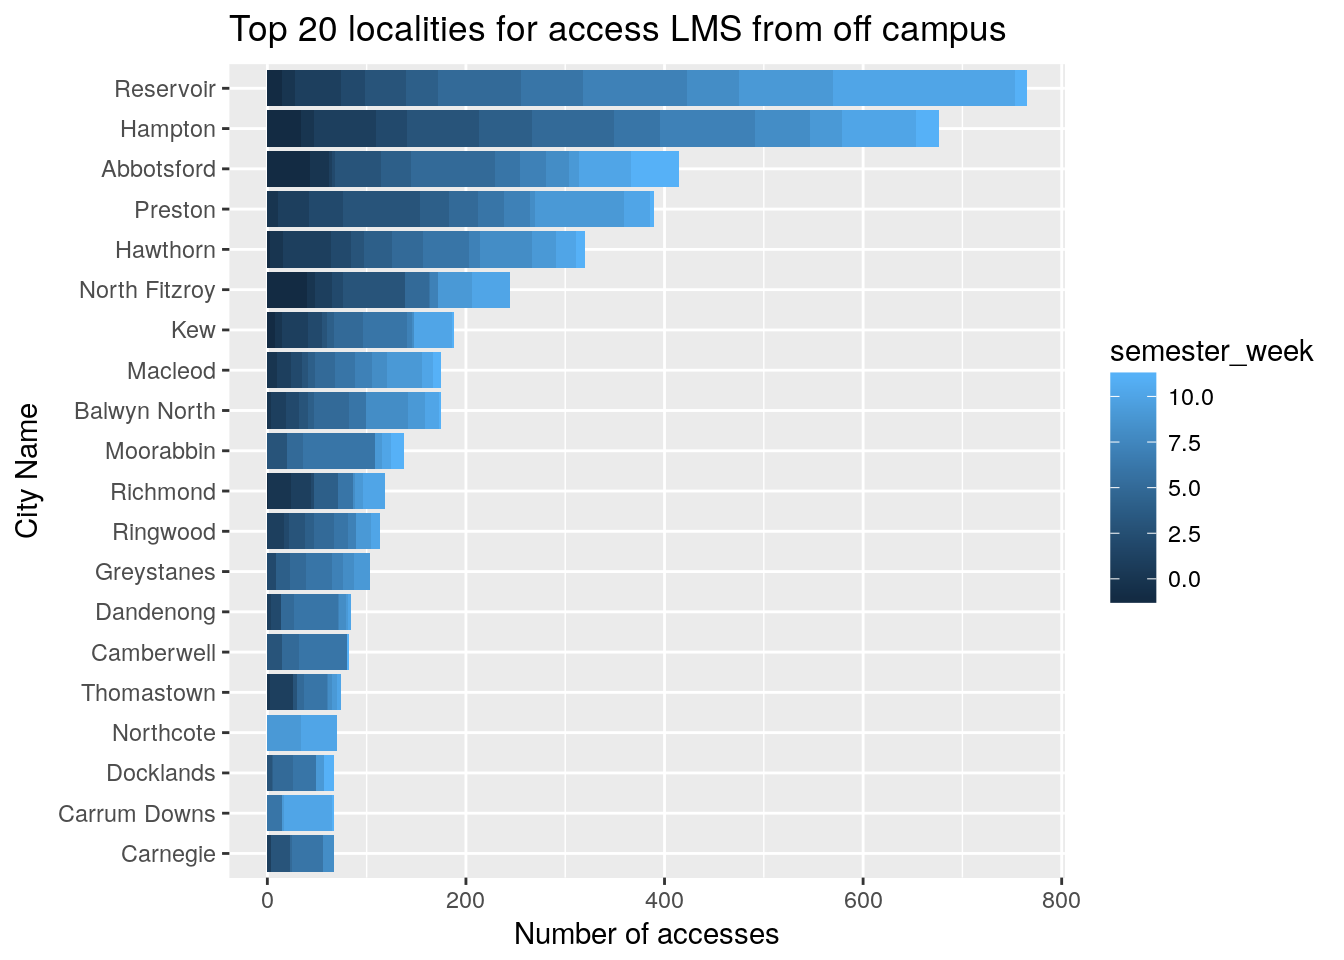
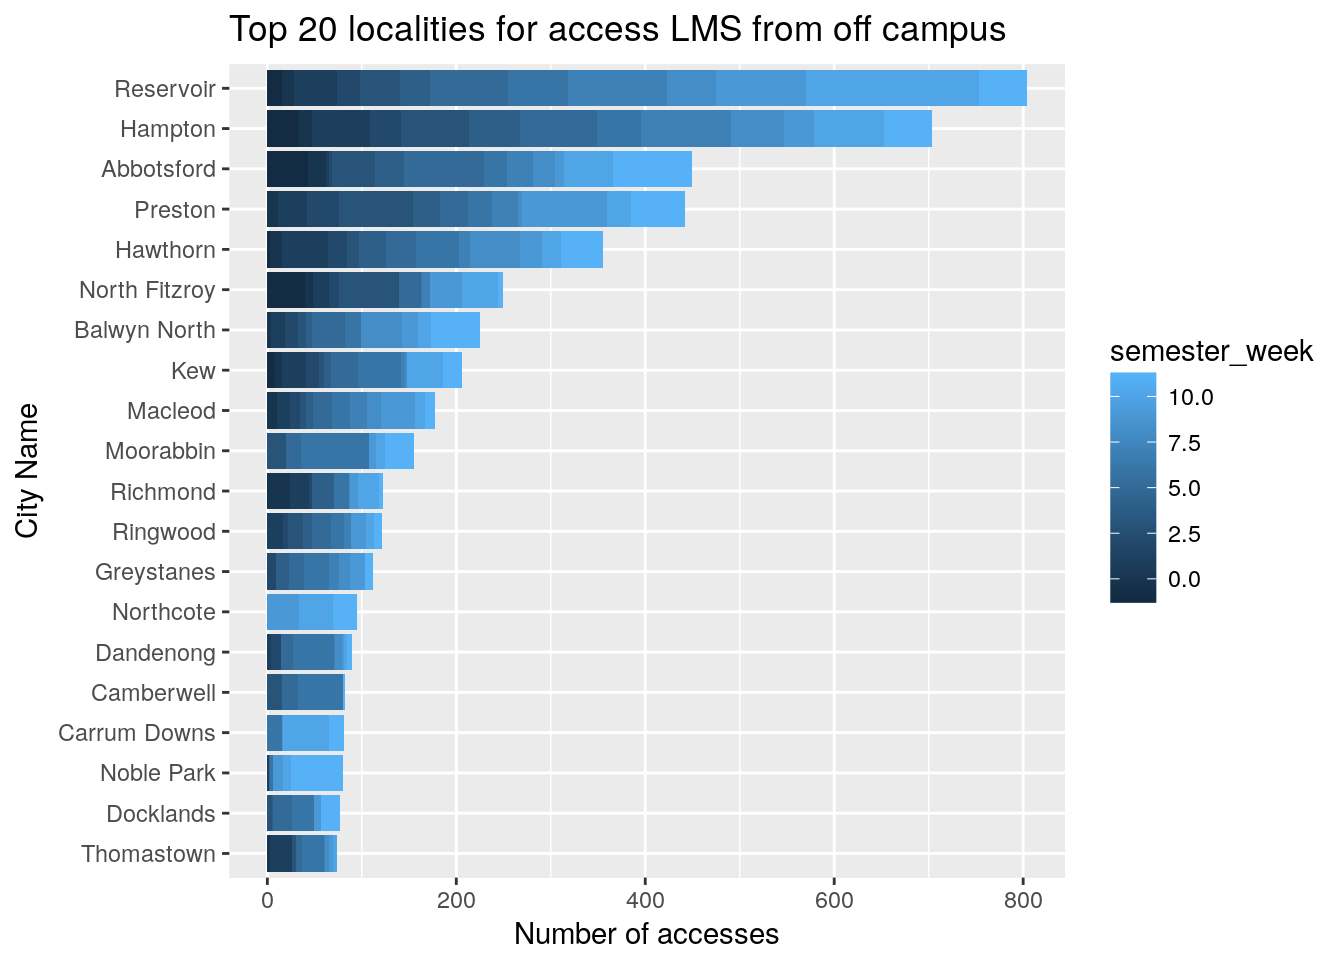
Build site.

diff --git a/docs/processIHBLogs.html b/docs/processIHBLogs.html
@@ -337,7 +337,7 @@ div.section {
 </div>
 
 
-<p><strong>Last updated:</strong> 2018-10-08</p>
+<p><strong>Last updated:</strong> 2018-10-10</p>
 <strong>workflowr checks:</strong> <small>(Click a bullet for more information)</small>
 <ul>
 <li>
@@ -361,13 +361,15 @@ div.section {
 </details>
 </li>
 <li>
-<p><details> <summary> <strong style="color:blue;">✔</strong> <strong>Repository version:</strong> <a href="https://github.com/dewoller/LMS_reports/tree/da348760d983964a26c45f7dc7fa3336d488e0af" target="_blank">da34876</a> </summary></p>
+<p><details> <summary> <strong style="color:blue;">✔</strong> <strong>Repository version:</strong> <a href="https://github.com/dewoller/LMS_reports/tree/7c13431155ec49b763aa4aa71cfef6bf2e4d44c2" target="_blank">7c13431</a> </summary></p>
 Great! You are using Git for version control. Tracking code development and connecting the code version to the results is critical for reproducibility. The version displayed above was the version of the Git repository at the time these results were generated. <br><br> Note that you need to be careful to ensure that all relevant files for the analysis have been committed to Git prior to generating the results (you can use <code>wflow_publish</code> or <code>wflow_git_commit</code>). workflowr only checks the R Markdown file, but you know if there are other scripts or data files that it depends on. Below is the status of the Git repository when the results were generated:
 <pre><code>
 Ignored files:
+    Ignored:    analysis/figure/
     Ignored:    logs/
 
 Unstaged changes:
+    Modified:   analysis/processHSILogs.Rmd
     Modified:   data/ip_locations.csv
     Modified:   lib/functions.R
 
@@ -398,6 +400,40 @@ Message
 </tr>
 </thead>
 <tbody>
+<tr>
+<td style="text-align:left;">
+Rmd
+</td>
+<td style="text-align:left;">
+<a href="https://github.com/dewoller/LMS_reports/blob/7c13431155ec49b763aa4aa71cfef6bf2e4d44c2/analysis/processIHBLogs.Rmd" target="_blank">7c13431</a>
+</td>
+<td style="text-align:left;">
+Dennis Wollersheim
+</td>
+<td style="text-align:left;">
+2018-10-10
+</td>
+<td style="text-align:left;">
+workflowr::wflow_publish(“analysis/processIHBLogs.Rmd”)
+</td>
+</tr>
+<tr>
+<td style="text-align:left;">
+html
+</td>
+<td style="text-align:left;">
+<a href="https://cdn.rawgit.com/dewoller/LMS_reports/32f351a50915b7fd10764eb44bf65d88467f4e34/docs/processIHBLogs.html" target="_blank">32f351a</a>
+</td>
+<td style="text-align:left;">
+Dennis Wollersheim
+</td>
+<td style="text-align:left;">
+2018-10-08
+</td>
+<td style="text-align:left;">
+Build site.
+</td>
+</tr>
 <tr>
 <td style="text-align:left;">
 html
@@ -777,10 +813,10 @@ wflow_publish(“analysis/processIHBLogs.Rmd”)
 </ul>
 <p></details></p>
 <hr />
-<div id="marks-for-the-class-logs_2018-him3hibbu-2him5ihbbu-2_20181008-2035.csv" class="section level1">
-<h1>Marks for the class logs_2018-HIM3HIB(BU-2)HIM5IHB(BU-2)_20181008-2035.csv</h1>
-<div id="for-the-period-2018-07-16-093000-2018-10-08-203100" class="section level2">
-<h2>For the period : 2018-07-16 09:30:00, 2018-10-08 20:31:00</h2>
+<div id="marks-for-the-class-logs_2018-him3hibbu-2him5ihbbu-2_20181010-1539.csv" class="section level1">
+<h1>Marks for the class logs_2018-HIM3HIB(BU-2)HIM5IHB(BU-2)_20181010-1539.csv</h1>
+<div id="for-the-period-2018-07-16-093000-2018-10-10-153900" class="section level2">
+<h2>For the period : 2018-07-16 09:30:00, 2018-10-10 15:39:00</h2>
 </div>
 </div>
 <div id="lab-attendence" class="section level1">
@@ -802,6 +838,17 @@ Date
 </tr>
 </thead>
 <tbody>
+<tr>
+<td style="text-align:left;">
+<a href="https://github.com/dewoller/LMS_reports/blob/32f351a50915b7fd10764eb44bf65d88467f4e34/docs/figure/processIHBLogs.Rmd/lab_participation-1.png" target="_blank">32f351a</a>
+</td>
+<td style="text-align:left;">
+Dennis Wollersheim
+</td>
+<td style="text-align:left;">
+2018-10-08
+</td>
+</tr>
 <tr>
 <td style="text-align:left;">
 <a href="https://github.com/dewoller/LMS_reports/blob/da348760d983964a26c45f7dc7fa3336d488e0af/docs/figure/processIHBLogs.Rmd/lab_participation-1.png" target="_blank">da34876</a>
@@ -898,6 +945,17 @@ Date
 </tr>
 </thead>
 <tbody>
+<tr>
+<td style="text-align:left;">
+<a href="https://github.com/dewoller/LMS_reports/blob/32f351a50915b7fd10764eb44bf65d88467f4e34/docs/figure/processIHBLogs.Rmd/lab_participation-2.png" target="_blank">32f351a</a>
+</td>
+<td style="text-align:left;">
+Dennis Wollersheim
+</td>
+<td style="text-align:left;">
+2018-10-08
+</td>
+</tr>
 <tr>
 <td style="text-align:left;">
 <a href="https://github.com/dewoller/LMS_reports/blob/da348760d983964a26c45f7dc7fa3336d488e0af/docs/figure/processIHBLogs.Rmd/lab_participation-2.png" target="_blank">da34876</a>
@@ -999,6 +1057,17 @@ Date
 <tbody>
 <tr>
 <td style="text-align:left;">
+<a href="https://github.com/dewoller/LMS_reports/blob/32f351a50915b7fd10764eb44bf65d88467f4e34/docs/figure/processIHBLogs.Rmd/Summary_by_student_last_digit-1.png" target="_blank">32f351a</a>
+</td>
+<td style="text-align:left;">
+Dennis Wollersheim
+</td>
+<td style="text-align:left;">
+2018-10-08
+</td>
+</tr>
+<tr>
+<td style="text-align:left;">
 <a href="https://github.com/dewoller/LMS_reports/blob/da348760d983964a26c45f7dc7fa3336d488e0af/docs/figure/processIHBLogs.Rmd/Summary_by_student_last_digit-1.png" target="_blank">da34876</a>
 </td>
 <td style="text-align:left;">
@@ -1093,6 +1162,17 @@ Date
 </tr>
 </thead>
 <tbody>
+<tr>
+<td style="text-align:left;">
+<a href="https://github.com/dewoller/LMS_reports/blob/32f351a50915b7fd10764eb44bf65d88467f4e34/docs/figure/processIHBLogs.Rmd/Summary_by_student_last_digit-2.png" target="_blank">32f351a</a>
+</td>
+<td style="text-align:left;">
+Dennis Wollersheim
+</td>
+<td style="text-align:left;">
+2018-10-08
+</td>
+</tr>
 <tr>
 <td style="text-align:left;">
 <a href="https://github.com/dewoller/LMS_reports/blob/da348760d983964a26c45f7dc7fa3336d488e0af/docs/figure/processIHBLogs.Rmd/Summary_by_student_last_digit-2.png" target="_blank">da34876</a>
@@ -1194,6 +1274,17 @@ Date
 </tr>
 </thead>
 <tbody>
+<tr>
+<td style="text-align:left;">
+<a href="https://github.com/dewoller/LMS_reports/blob/32f351a50915b7fd10764eb44bf65d88467f4e34/docs/figure/processIHBLogs.Rmd/unnamed-chunk-1-1.png" target="_blank">32f351a</a>
+</td>
+<td style="text-align:left;">
+Dennis Wollersheim
+</td>
+<td style="text-align:left;">
+2018-10-08
+</td>
+</tr>
 <tr>
 <td style="text-align:left;">
 <a href="https://github.com/dewoller/LMS_reports/blob/da348760d983964a26c45f7dc7fa3336d488e0af/docs/figure/processIHBLogs.Rmd/unnamed-chunk-1-1.png" target="_blank">da34876</a>
@@ -1305,6 +1396,17 @@ Date
 <tbody>
 <tr>
 <td style="text-align:left;">
+<a href="https://github.com/dewoller/LMS_reports/blob/32f351a50915b7fd10764eb44bf65d88467f4e34/docs/figure/processIHBLogs.Rmd/unnamed-chunk-2-1.png" target="_blank">32f351a</a>
+</td>
+<td style="text-align:left;">
+Dennis Wollersheim
+</td>
+<td style="text-align:left;">
+2018-10-08
+</td>
+</tr>
+<tr>
+<td style="text-align:left;">
 <a href="https://github.com/dewoller/LMS_reports/blob/da348760d983964a26c45f7dc7fa3336d488e0af/docs/figure/processIHBLogs.Rmd/unnamed-chunk-2-1.png" target="_blank">da34876</a>
 </td>
 <td style="text-align:left;">
@@ -1410,6 +1512,17 @@ Date
 </tr>
 </thead>
 <tbody>
+<tr>
+<td style="text-align:left;">
+<a href="https://github.com/dewoller/LMS_reports/blob/32f351a50915b7fd10764eb44bf65d88467f4e34/docs/figure/processIHBLogs.Rmd/unnamed-chunk-2-2.png" target="_blank">32f351a</a>
+</td>
+<td style="text-align:left;">
+Dennis Wollersheim
+</td>
+<td style="text-align:left;">
+2018-10-08
+</td>
+</tr>
 <tr>
 <td style="text-align:left;">
 <a href="https://github.com/dewoller/LMS_reports/blob/da348760d983964a26c45f7dc7fa3336d488e0af/docs/figure/processIHBLogs.Rmd/unnamed-chunk-2-2.png" target="_blank">da34876</a>
@@ -1523,6 +1636,17 @@ Date
 <tbody>
 <tr>
 <td style="text-align:left;">
+<a href="https://github.com/dewoller/LMS_reports/blob/32f351a50915b7fd10764eb44bf65d88467f4e34/docs/figure/processIHBLogs.Rmd/unnamed-chunk-4-1.png" target="_blank">32f351a</a>
+</td>
+<td style="text-align:left;">
+Dennis Wollersheim
+</td>
+<td style="text-align:left;">
+2018-10-08
+</td>
+</tr>
+<tr>
+<td style="text-align:left;">
 <a href="https://github.com/dewoller/LMS_reports/blob/da348760d983964a26c45f7dc7fa3336d488e0af/docs/figure/processIHBLogs.Rmd/unnamed-chunk-4-1.png" target="_blank">da34876</a>
 </td>
 <td style="text-align:left;">
@@ -1632,6 +1756,17 @@ Date
 </tr>
 </thead>
 <tbody>
+<tr>
+<td style="text-align:left;">
+<a href="https://github.com/dewoller/LMS_reports/blob/32f351a50915b7fd10764eb44bf65d88467f4e34/docs/figure/processIHBLogs.Rmd/unnamed-chunk-5-1.png" target="_blank">32f351a</a>
+</td>
+<td style="text-align:left;">
+Dennis Wollersheim
+</td>
+<td style="text-align:left;">
+2018-10-08
+</td>
+</tr>
 <tr>
 <td style="text-align:left;">
 <a href="https://github.com/dewoller/LMS_reports/blob/da348760d983964a26c45f7dc7fa3336d488e0af/docs/figure/processIHBLogs.Rmd/unnamed-chunk-5-1.png" target="_blank">da34876</a>
@@ -1768,6 +1903,20 @@ Dennis Wollersheim
 </tbody>
 </table>
 <p></details></p>
+</div>
+<div id="total-access-vs-marks-for-5-most-accessed-components" class="section level1">
+<h1>total access vs marks for 5 most accessed components</h1>
+<p><img src="figure/processIHBLogs.Rmd/unnamed-chunk-7-1.png" width="672" style="display: block; margin: auto;" /></p>
+</div>
+<div id="access-vs-marks-overall-by-person" class="section level1">
+<h1>access vs marks overall by person</h1>
+<p><img src="figure/processIHBLogs.Rmd/unnamed-chunk-8-1.png" width="672" style="display: block; margin: auto;" /></p>
+</div>
+<div id="access-vs-marks-overall-by-person-and-week" class="section level1">
+<h1>access vs marks overall by person and week</h1>
+<p><img src="figure/processIHBLogs.Rmd/unnamed-chunk-9-1.png" width="672" style="display: block; margin: auto;" /><img src="figure/processIHBLogs.Rmd/unnamed-chunk-9-2.png" width="672" style="display: block; margin: auto;" /><img src="figure/processIHBLogs.Rmd/unnamed-chunk-9-3.png" width="672" style="display: block; margin: auto;" /><img src="figure/processIHBLogs.Rmd/unnamed-chunk-9-4.png" width="672" style="display: block; margin: auto;" /></p>
+<div id="session-information" class="section level2">
+<h2>Session information</h2>
 <pre><code>R version 3.4.4 (2018-03-15)
 Platform: x86_64-pc-linux-gnu (64-bit)
 Running under: Ubuntu 17.10
@@ -1827,6 +1976,7 @@ loaded via a namespace (and not attached):
 [88] broom_0.5.0        e1071_1.6-8        later_0.7.3       
 [91] class_7.3-14       viridisLite_0.3.0  iterators_1.0.10  
 [94] units_0.6-0       </code></pre>
+</div>
 </div>
 
 <!-- Adjust MathJax settings so that all math formulae are shown using
